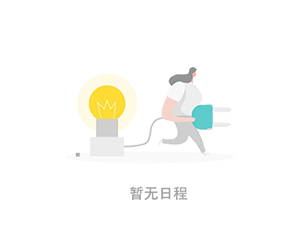
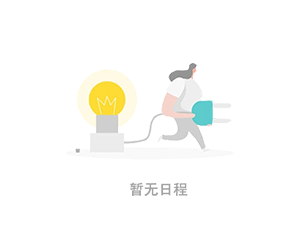
fix a schedule bug

diff --git a/myschedule.cpp b/myschedule.cpp
@@ -114,6 +114,13 @@ void MySchedule::loadSchedule() // 读取保存的课表函数实现
         }
         file.close();
     } else {
-        QMessageBox::warning(this, "读取失败", "无法打开文件进行读取");
+        if (!file.exists()) {
+            if (file.open(QIODevice::WriteOnly | QIODevice::Text)) {
+                file.close();
+                QMessageBox::information(this, "新建文件", "已创建一个新的空的schedule.txt文件.");
+            }
+        }else{
+            QMessageBox::warning(this, "读取失败", "无法打开文件进行读取");
+        }
     }
 }

diff --git a/mainwindow.cpp b/mainwindow.cpp
@@ -202,7 +202,7 @@ void MainWindow::updateMatters() {
         delete widget;
     }
     if (size == 0) {
-        ui->matterScrollArea->widget()->setStyleSheet("QWidget#scrollAreaContent {background-image: url(://img/noMatter.png);background-size: cover;background-position: center center; background-size: 100px;}");
+        ui->matterScrollArea->widget()->setStyleSheet("QWidget#scrollAreaContent {background-image: url(:/img/noMatter.png);background-size: cover;background-position: center center; background-size: 100px;}");
         return;
     }
     for (int i = 0; i < size; ++i) {

diff --git a/minischedule.cpp b/minischedule.cpp
@@ -49,7 +49,7 @@ void MiniSchedule::updateMatters() {
         delete widget;
     }
     if (size == 0) {
-        ui->scrollArea->widget()->setStyleSheet("QWidget#scrollAreaContent {background-image: url(://img/noMatter.png);background-size: cover;background-position: center center; background-size: 100px;}");
+        ui->scrollArea->widget()->setStyleSheet("QWidget#scrollAreaContent {background-image: url(:/img/miniNoMatter.png);background-size: cover;background-position: center center; background-size: 100px;}");
         return;
     }
     for (int i = 0; i < size; ++i) {
